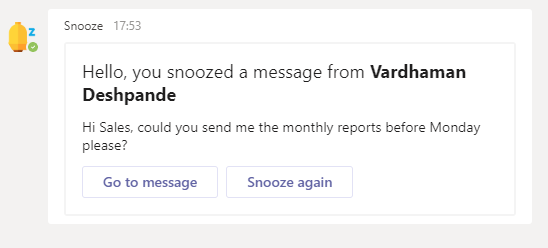
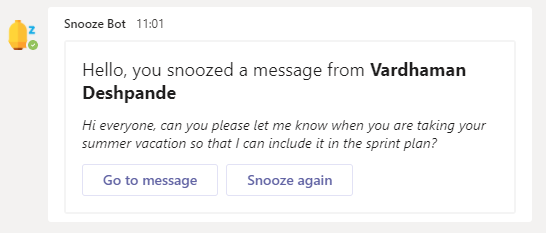
updated images and docs for new functionality

diff --git a/README.md b/README.md
@@ -2,6 +2,8 @@
 
 Have you received a Teams message and couldn't address it immediately? Did you feel that you could have snoozed the message so that it arrived at a later time which is more convenient? You can now do exactly that with the Snooze Bot! You can use the Snooze bot to snooze your teams messages in personal chats, group chats and Teams channels. When the specified time arrives,  the bot will send you a personal card reminding you about your snoozed message. From the personal card, either you can go directly to the Teams message or you can snooze the message again
 
+## Snooze Bot for Teams users
+
 1. After installing the app, click on the **three dots** next to any Microsoft Teams chat message, then **More actions** and select **Snooze message**
 
 ![Snooze teams message](/assets/1.png)
@@ -17,6 +19,14 @@ Have you received a Teams message and couldn't address it immediately? Did you f
 4. When the time comes, the bot will send you a reminder card in a personal chat about the Snoozed message
 
 ![Personal card](/assets/4.png)
+
+## Snooze Bot for a Team
+
+1. After installing the app for a team, you can use it to remind you about teams messages and notify about them at a later time.
+
+2. Mention the bot in a teams conversation and send the 'remind' command. When the specified time arrives, the bot will post a reminder message in the conversation.
+
+![Teams reminder](/assets/5.png)
 
 # Augmentech Ltd
 
